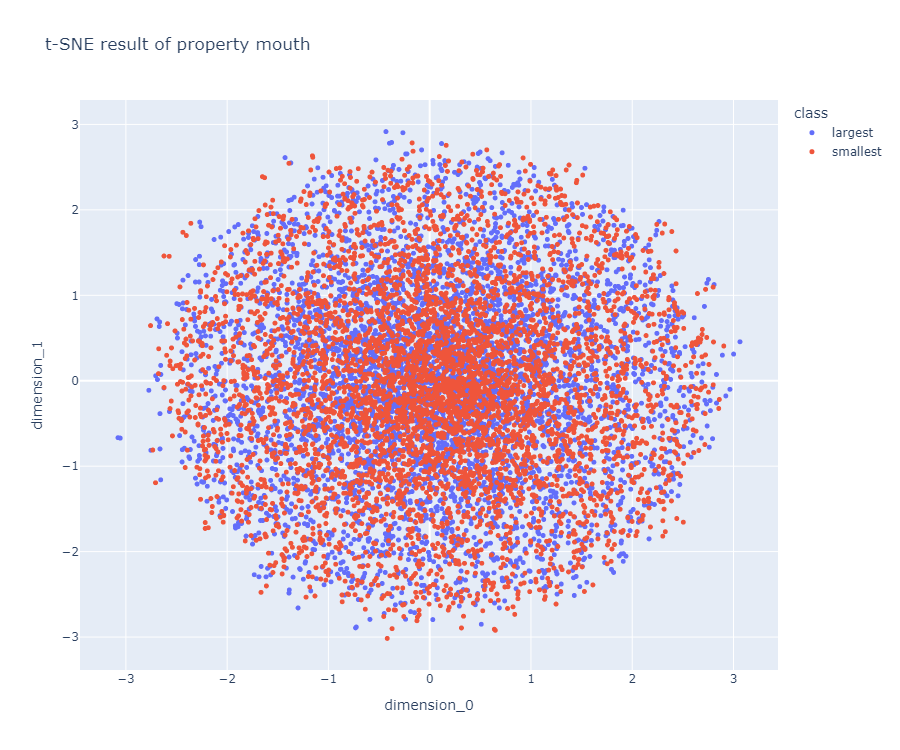
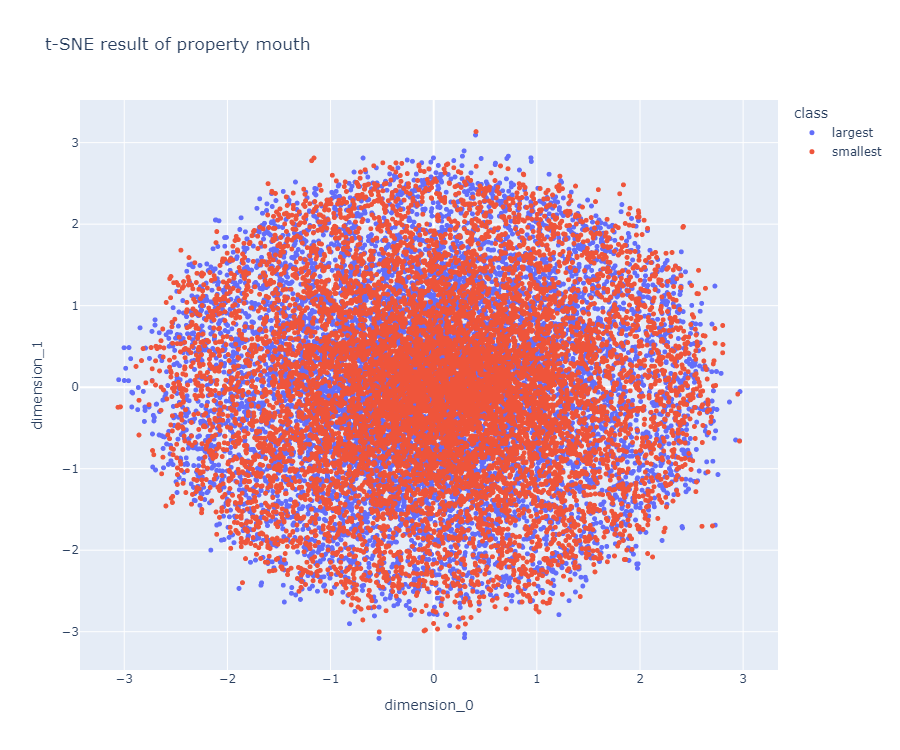
DOC: update results (n=50K, k=10K, sklearnex)

diff --git a/2025_05_02_OhLoRA_v2/stylegan/stylegan_vectorfind_v6/run_vector_find.py b/2025_05_02_OhLoRA_v2/stylegan/stylegan_vectorfind_v6/run_vector_find.py
@@ -42,7 +42,7 @@ SVMS_PER_EACH_PROPERTY = 1      # also z-vector count for each property
 #                                    'mouth_cnn_score': list(float),
 #                                    'pose_cnn_score': list(float)}
 
-def sample_z_and_compute_property_scores(finetune_v1_generator, property_score_cnn, n=25000):
+def sample_z_and_compute_property_scores(finetune_v1_generator, property_score_cnn, n=50000):
     save_dir = f'{PROJECT_DIR_PATH}/stylegan/stylegan_vectorfind_v6/inference_test_during_training'
 
     z = np.random.normal(0, 1, size=(n, ORIGINAL_HIDDEN_DIMS_Z)).astype(np.float64)
@@ -108,7 +108,7 @@ def sample_z_and_compute_property_scores(finetune_v1_generator, property_score_c
 #                          'mouth_largest': list(int), 'mouth_smallest': list(int),
 #                          'pose_largest': list(int), 'pose_smallest': list(int)}
 
-def extract_best_and_worst_k_images(property_scores, k=5000):
+def extract_best_and_worst_k_images(property_scores, k=10000):
 
     # sort scores with index
     eyes_cnn_scores_with_idx = []

diff --git a/2025_05_02_OhLoRA_v2/stylegan/stylegan_vectorfind_v6/svm_train_report/performance_and_time.md b/2025_05_02_OhLoRA_v2/stylegan/stylegan_vectorfind_v6/svm_train_report/performance_and_time.md
@@ -40,3 +40,4 @@ TBU
 | 10.0K                    | 2.0K / 2.0K                     | ❌                                                                                                                    | 391.5                     | 53.6                                 | 152.2                                       | 0.7788                         | 0.8100                          | 0.7850                         |
 | 25.0K                    | 5.0K / 5.0K                     | ❌                                                                                                                    | 944.5                     | 141.2                                | 514.6                                       | 0.8175                         | 0.8295                          | 0.8485                         |
 | 25.0K                    | 5.0K / 5.0K                     | ✅                                                                                                                    | 1084.8                    | 204.0                                | 347.6                                       | 0.8150                         | 0.8110                          | 0.8385                         |
+| 50.0K                    | 10.0K / 10.0K                   | ✅                                                                                                                    | 2110.0                    | 442.6                                | 538.0                                       | 0.8472                         | 0.8260                          | 0.8538                         |
